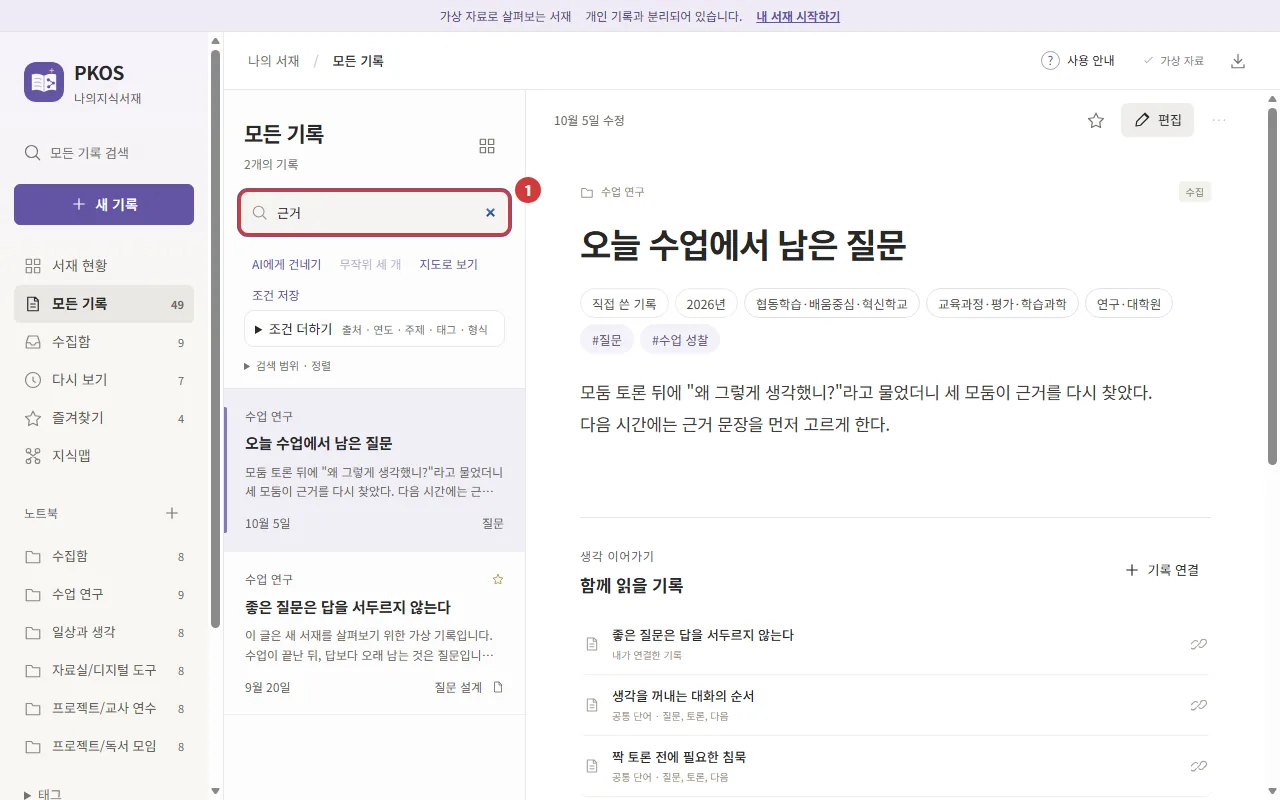
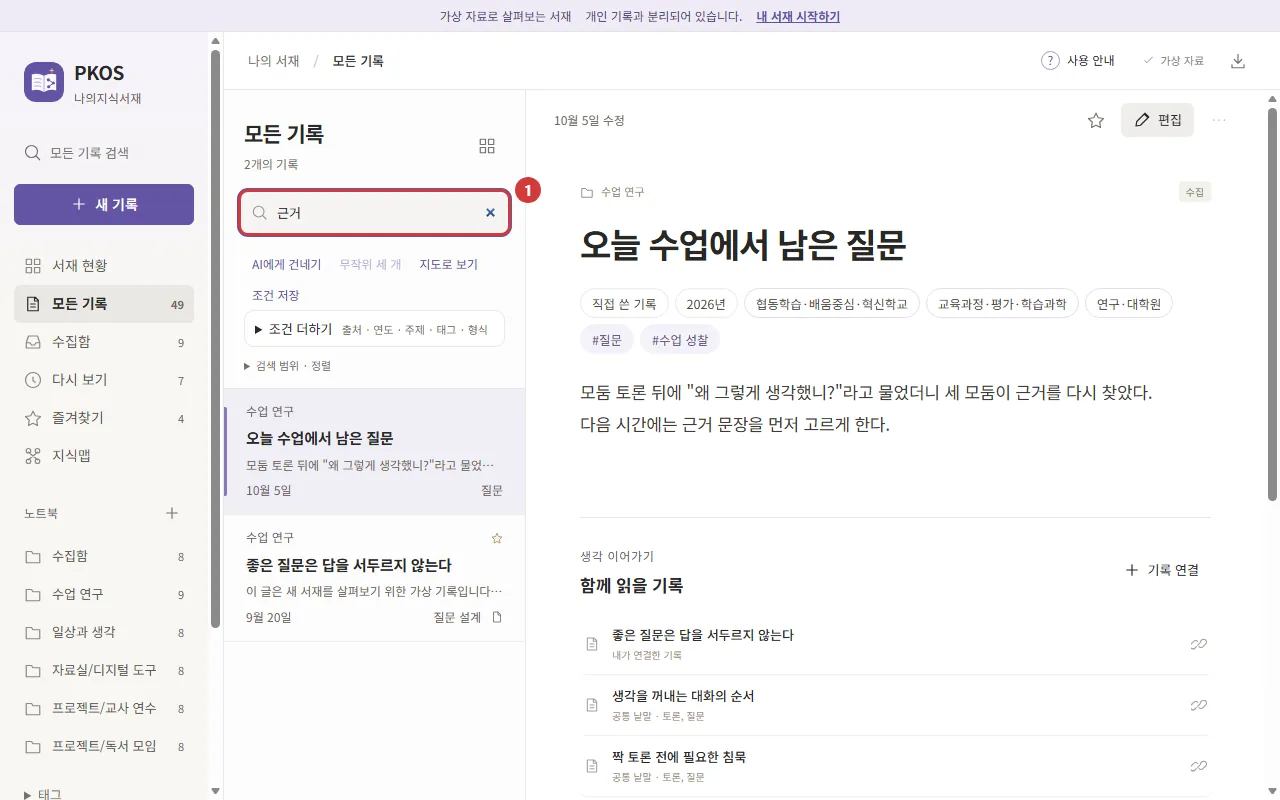
기록장 2차 정비에 맞춰 사진 20장과 지식맵 미리 보기 단계
- 기록장 사진을 새 설명서 그림에서 다시 만들고 지도 미리 보기 사진(04-4) 추가, 화면 사진 36장
- 지식맵 5단계 「점을 눌러 미리 보기」, 3D 사진 설명 고침
- 함께 읽을 기록 설명(드문 낱말·주제 태그), 만든 과정 10월 5일 문장

diff --git a/index.html b/index.html
@@ -54,7 +54,7 @@
       <h1>흩어진 기록을<br>다시 꺼내 쓰는 세 도구</h1>
       <p>쌓여 있는 문서는 변환기로 글을 꺼내고 기록장에서 내 생각을 더해 서로 이어 둡니다. 나누고 싶은 기록은 사이트 만들기로 엮어 웹 페이지로 만듭니다.</p>
       <p>세 도구 모두 깃허브에 공개되어 있어서 주소로 바로 열어 쓰거나 내 계정으로 가져갈 수 있습니다.</p>
-      <div class="stats"><span><b>3</b>도구</span><span><b>13</b>학습 블록</span><span><b>35</b>화면 사진</span><span><b>0</b>자료를 받는 서버</span></div>
+      <div class="stats"><span><b>3</b>도구</span><span><b>13</b>학습 블록</span><span><b>36</b>화면 사진</span><span><b>0</b>자료를 받는 서버</span></div>
     </div>
 
     <div class="beginner">
@@ -98,7 +98,7 @@
       <a class="card" href="#b01" style="--color:var(--blue)"><span class="num">BLOCK 01</span><h3>기록장 열고 화면 읽기</h3><p>체험 서재와 내 서재를 구별하고 화면의 여섯 구역을 찾아봅니다.</p><span class="meta">기록장 · 화면 사진 2장</span></a>
       <a class="card" href="#b02" style="--color:var(--blue)"><span class="num">BLOCK 02</span><h3>첫 기록 쓰기와 연결</h3><p>노트북과 태그를 정해 기록을 저장한 다음 다른 기록과 이어 봅니다.</p><span class="meta">기록장 · 화면 사진 4장</span></a>
       <a class="card" href="#b03" style="--color:var(--blue)"><span class="num">BLOCK 03</span><h3>찾기와 자료 카드 가져오기</h3><p>낱말로 찾아보고 카드 파일 하나로 기록 109개를 한꺼번에 가져옵니다.</p><span class="meta">기록장 · 화면 사진 4장</span></a>
-      <a class="card" href="#b04" style="--color:var(--blue)"><span class="num">BLOCK 04</span><h3>지식맵으로 연결 보기</h3><p>영역을 바꾸고 확대해 보며 선을 눌러 연결된 이유를 읽습니다.</p><span class="meta">기록장 · 화면 사진 4장</span></a>
+      <a class="card" href="#b04" style="--color:var(--blue)"><span class="num">BLOCK 04</span><h3>지식맵으로 연결 보기</h3><p>영역을 바꾸고 확대해 보며 선과 점을 눌러 연결 이유와 이어진 기록을 읽습니다.</p><span class="meta">기록장 · 화면 사진 5장</span></a>
       <a class="card" href="#b05" style="--color:var(--blue)"><span class="num">BLOCK 05</span><h3>백업과 휴대폰</h3><p>첨부까지 담긴 백업 파일을 받습니다. 기기마다 서재가 따로라는 점도 익힙니다.</p><span class="meta">기록장 · 화면 사진 5장</span></a>
       <a class="card" href="#b06" style="--color:var(--green)"><span class="num">BLOCK 06</span><h3>코랩으로 샘플 변환</h3><p>설치 없이 샘플 PDF를 마크다운으로 바꾸고 결과를 받아 봅니다.</p><span class="meta">변환기 · 화면 사진 2장</span></a>
       <a class="card" href="#b07" style="--color:var(--green)"><span class="num">BLOCK 07</span><h3>내 폴더 변환과 개인정보</h3><p>문서 폴더를 통째로 바꾸고 개인정보 보고서를 확인합니다.</p><span class="meta">변환기 · 개념 · 실습 · 확인</span></a>
@@ -163,7 +163,7 @@
       <div class="setupstep"><span class="stepn">2</span><div><h3>노트북과 태그 정하기</h3><p>「노트북 · 태그 · 다시 볼 날짜」를 펼쳐서 노트북은 「수업 연구」로 고르고, 태그 칸에는 <code>질문, 수업 성찰</code>을 적습니다. 태그는 쉼표로 나눕니다.</p></div></div>
       <div class="setupstep"><span class="stepn">3</span><div><h3><code>/</code>로 서식 넣기</h3><p>본문 끝 새 줄에서 <code>/</code>를 치면 「기록에 넣기」 메뉴가 열리고 제목·굵게·목록·표 같은 서식을 고를 수 있습니다. Esc로 닫은 뒤 방금 친 <code>/</code>는 지웁니다.</p></div></div>
       <div class="setupstep"><span class="stepn">4</span><div><h3>다른 기록과 잇기</h3><p>「다른 기록 연결」을 누르고 찾기 칸에 <code>질문</code>을 적습니다. 「좋은 질문은 답을 서두르지 않는다」에 표시한 다음 「연결 저장」을 누르면 됩니다.</p></div></div>
-      <div class="setupstep"><span class="stepn">5</span><div><h3>저장하고 읽기</h3><p>「저장」을 누르면 읽기 화면으로 바뀝니다. 「함께 읽을 기록」 맨 위에 "내가 연결한 기록"이 있습니다. 그 아래로 이어지는 기록은 본문 낱말과 태그가 겹쳐서 서재가 찾아 준 것입니다.</p></div></div>
+      <div class="setupstep"><span class="stepn">5</span><div><h3>저장하고 읽기</h3><p>「저장」을 누르면 읽기 화면으로 바뀝니다. 「함께 읽을 기록」 맨 위에 "내가 연결한 기록"이 있습니다. 그 아래로 이어지는 기록은 서재에서 드물게 나오는 낱말이나 주제 태그가 겹쳐서 서재가 찾아 준 것이고, 줄마다 겹친 낱말이 적혀 있습니다.</p></div></div>
       <div class="photogrid">
         <figure><button class="photobutton" type="button"><img src="img/lib-editor.webp" alt="새 기록 편집 화면" data-number="02-1" loading="lazy"></button><figcaption><span class="photonum">사진 02-1</span>새 기록 편집 화면입니다. ① 제목, ② 본문, ③ 노트북·상태·태그·다시 볼 날짜, ④ 저장 단추입니다.</figcaption></figure>
         <figure><button class="photobutton" type="button"><img src="img/lib-slash.webp" alt="/ 를 치면 열리는 기록에 넣기 메뉴" data-number="02-2" loading="lazy"></button><figcaption><span class="photonum">사진 02-2</span><code>/</code>를 치면 열리는 「기록에 넣기」 메뉴입니다. 방향키로 고르고 Enter로 넣습니다.</figcaption></figure>
@@ -199,19 +199,21 @@
 
   <!-- 04 -->
   <section id="b04" class="lesson view" hidden>
-    <header class="lessonheader" style="--hd:var(--blue)"><span class="blocknum">BLOCK 04 · 기록장</span><h2>지식맵으로 연결 보기</h2><p class="goal">지식맵에서 영역을 바꾸고 확대해 봅니다. 선을 눌러 두 기록이 이어진 이유를 읽습니다.</p></header>
+    <header class="lessonheader" style="--hd:var(--blue)"><span class="blocknum">BLOCK 04 · 기록장</span><h2>지식맵으로 연결 보기</h2><p class="goal">지식맵에서 영역을 바꾸고 확대해 봅니다. 선을 눌러 두 기록이 이어진 이유를 읽고, 점을 눌러 이어진 기록을 따라갑니다.</p></header>
     <div class="content">
       <p>지식맵의 점은 기록 하나, 선은 두 기록 사이의 연결입니다. 점 색은 영역(가장 위 노트북)을 나타내고 같은 묶음에 든 기록끼리 가까이 모입니다. 점 사이의 거리는 연결 규칙으로 계산한 배치입니다. 의미가 얼마나 가까운지를 잰 값은 아닙니다.</p>
       <div class="setupstep"><span class="stepn">1</span><div><h3>지식맵 열기</h3><p>왼쪽 「지식맵」을 누릅니다. 위쪽에서 지도에 올릴 기록 수(처음에는 500개)와 고르는 기준, 영역을 정할 수 있습니다.</p></div></div>
       <div class="setupstep"><span class="stepn">2</span><div><h3>영역 바꾸기</h3><p>「영역」을 「수업」으로 바꾸면 수업 영역의 묶음 4개가 서로 다른 색으로 다시 칠해집니다.</p></div></div>
       <div class="setupstep"><span class="stepn">3</span><div><h3>확대하고 움직이기</h3><p>무리 위에서 마우스 휠을 굴리면 확대되면서 기록 제목이 보입니다. 빈 곳을 끌면 지도가 움직이고 「전체 보기」를 누르면 처음 크기로 돌아옵니다. 휴대폰에서는 두 손가락으로 벌리면 됩니다.</p></div></div>
       <div class="setupstep"><span class="stepn">4</span><div><h3>선을 눌러 이유 읽기</h3><p>점과 점 사이의 선을 누르면 「이 기록들이 연결된 이유」 창이 열립니다. 겹친 낱말, 같은 태그와 노트북, 직접 연결 여부, 그리고 점수가 나옵니다.</p></div></div>
-      <div class="setupstep"><span class="stepn">5</span><div><h3>3D로 돌려 보기</h3><p>「3D 입체 지도」를 누르고 빈 곳을 끌어 돌려 봅니다. 3D 지도는 기록을 500개까지 그립니다.</p></div></div>
+      <div class="setupstep"><span class="stepn">5</span><div><h3>점을 눌러 미리 보기</h3><p>점 하나를 누르면 지도 오른쪽에 그 기록의 미리 보기가 열리고, 이 지도에서 이어진 기록과 연결 이유가 보입니다. 이어진 기록을 누르면 미리 보기가 그 기록으로 바뀌어 지도를 떠나지 않고 따라갈 수 있습니다. 「이웃만 보기」는 그 기록과 이웃만 남겨 확대하고, 「읽기」는 기록을 엽니다.</p></div></div>
+      <div class="setupstep"><span class="stepn">6</span><div><h3>3D로 돌려 보기</h3><p>「3D 입체 지도」를 누르고 빈 곳을 끌어 돌려 봅니다. 3D 지도는 기록을 500개까지 그립니다.</p></div></div>
       <div class="photogrid">
         <figure><button class="photobutton" type="button"><img src="img/lib-map.webp" alt="지식맵 첫 화면" data-number="04-1" loading="lazy"></button><figcaption><span class="photonum">사진 04-1</span>지식맵 첫 화면입니다. ① 2D·3D 전환, ② 올릴 기록, ③ 색 범례, ④ 지도에서 찾기, ⑤ 확대·축소입니다.</figcaption></figure>
         <figure><button class="photobutton" type="button"><img src="img/lib-map-topic.webp" alt="영역을 수업으로 고른 지도" data-number="04-2" loading="lazy"></button><figcaption><span class="photonum">사진 04-2</span>영역을 「수업」으로 고른 지도입니다. 묶음마다 색이 다릅니다.</figcaption></figure>
         <figure><button class="photobutton" type="button"><img src="img/lib-map-edge.webp" alt="선을 눌러 연 연결 이유 창" data-number="04-3" loading="lazy"></button><figcaption><span class="photonum">사진 04-3</span>선을 눌러 연 「이 기록들이 연결된 이유」 창입니다.</figcaption></figure>
-        <figure><button class="photobutton" type="button"><img src="img/lib-map-3d.webp" alt="3D 입체 지도" data-number="04-4" loading="lazy"></button><figcaption><span class="photonum">사진 04-4</span>3D 입체 지도입니다. 끌어서 돌려 보고 점을 누르면 그 기록이 열립니다.</figcaption></figure>
+        <figure><button class="photobutton" type="button"><img src="img/lib-map-peek.webp" alt="점을 눌러 연 미리 보기" data-number="04-4" loading="lazy"></button><figcaption><span class="photonum">사진 04-4</span>점을 눌러 연 미리 보기입니다. ① 고른 기록, ② 「읽기」, ③ 「이웃만 보기」입니다.</figcaption></figure>
+        <figure><button class="photobutton" type="button"><img src="img/lib-map-3d.webp" alt="3D 입체 지도" data-number="04-5" loading="lazy"></button><figcaption><span class="photonum">사진 04-5</span>3D 입체 지도입니다. 끌어서 돌려 보고 점을 누르면 미리 보기가 열립니다.</figcaption></figure>
       </div>
       <aside class="callout"><h3>지도가 느릴 때</h3><p>기록이 수천 개라면 「기록 수」를 500개 이하로 줄이거나 영역 하나만 골라 보세요. 지도 아래 「지도에 있는 기록 목록으로 찾기」를 펼치면 지도에 오른 기록을 글 목록으로도 볼 수 있습니다.</p></aside>
     </div>
@@ -480,7 +482,7 @@ python pkos.py --자가진단</code></pre></div>
         <li><time>2026.09.28</time><span>기록장을 다시 설계해 서버 없이 브라우저에 저장하는 나의지식서재를 열었습니다.</span></li>
         <li><time>2026.10.01</time><span>드라이브 자료 사본 7,203개를 카드 5,087장으로 넣어 직접 써 보면서 지식맵과 속도를 고쳤습니다.</span></li>
         <li><time>2026.10.02</time><span>사용 설명서와 실습 카드를 만들었습니다. 세 도구도 깃허브에서 가져갈 수 있게 정리했습니다.</span></li>
-        <li><time>2026.10.05</time><span>연수 뒤 기록장을 정비했습니다. 「서재 현황」과 조건 찾기를 넣고, 문서 카드 5,000장에 본문 앞부분을 채웠고(스캔한 PDF 193개는 Windows 글자 인식으로 따로 읽음), 카드 안 구글 드라이브 미리보기는 보기 전용으로 두었습니다. 자료변환기는 읽지 못하던 워드·PPT 일부와 .odt, XML로 저장한 한글 문서를 읽게 고쳤습니다.</span></li>
+        <li><time>2026.10.05</time><span>연수 뒤 기록장을 정비했습니다. 「서재 현황」과 조건 찾기를 넣고, 문서 카드 5,000장에 본문 앞부분을 채웠고(스캔한 PDF 193개는 Windows 글자 인식으로 따로 읽음), 카드 안 구글 드라이브 미리보기는 보기 전용으로 두었습니다. 자료변환기는 읽지 못하던 워드·PPT 일부와 .odt, XML로 저장한 한글 문서를 읽게 고쳤습니다. 이어서 「함께 읽을 기록」과 지식맵 연결을 드문 낱말 기준으로 바꾸고, 드라이브 여러 곳에 있는 같은 문서를 목록에서 한 줄로 묶고, 지도에서 점을 누르면 미리 보기가 열리게 했습니다.</span></li>
       </ol>
       <h3>써 보며 고친 것</h3>
       <ul>
